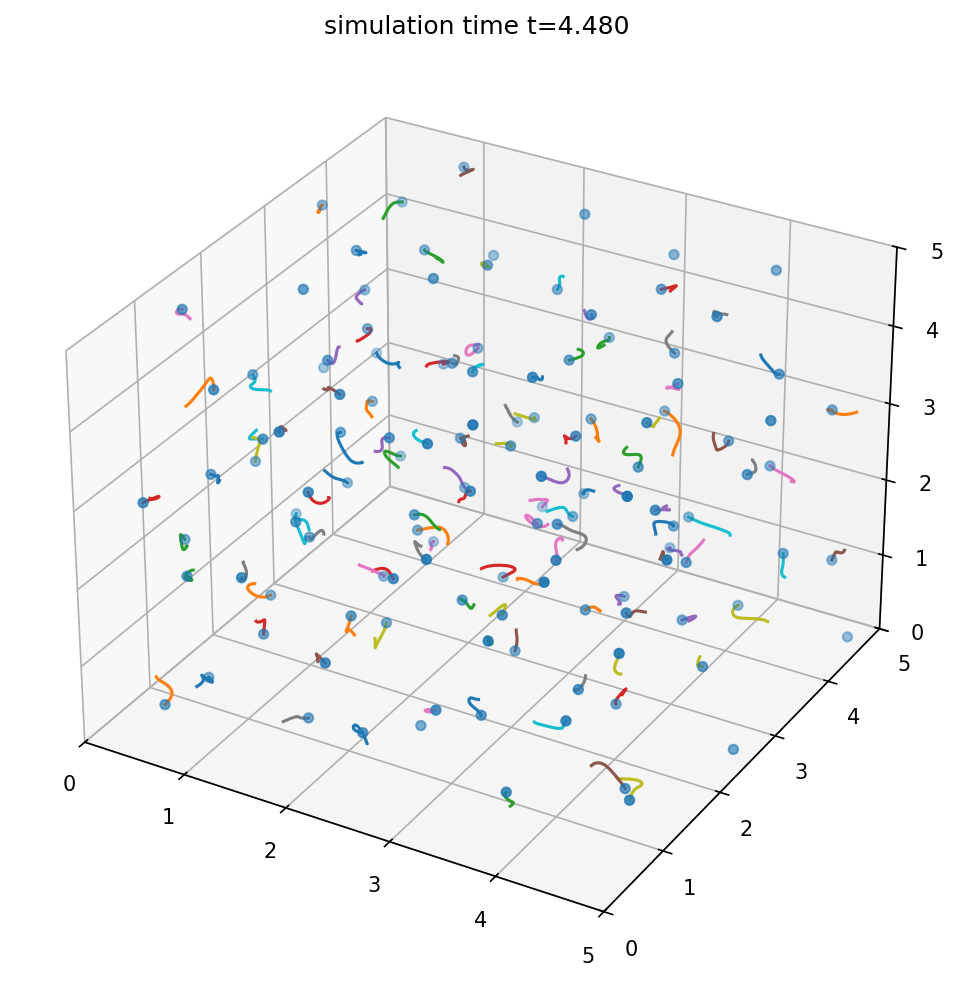
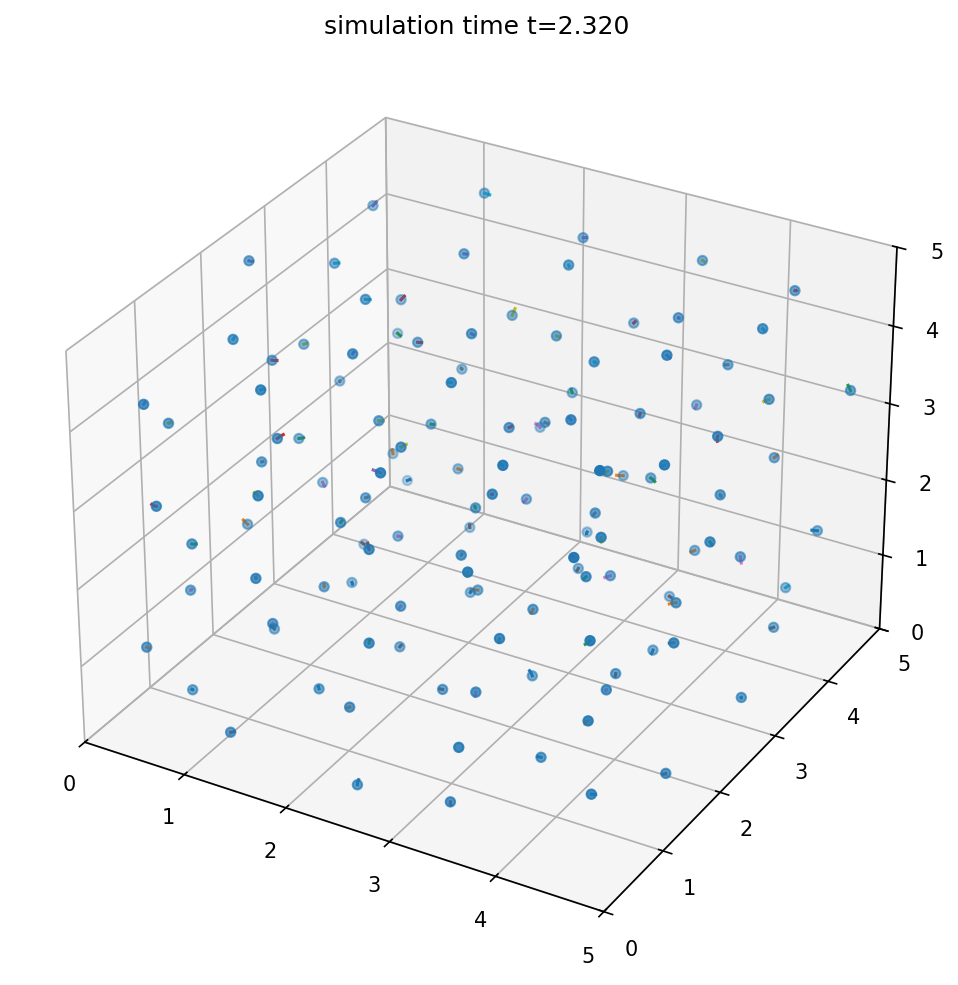
vel renormalization works

diff --git a/main.py b/main.py
@@ -6,7 +6,7 @@ import matplotlib.pyplot as plt
 import matplotlib.animation as animation
 from collections import deque
 from forces import calculateForces
-from pos_and_vel import box_array, position, velocity, toy_position, toy_velocity, renormalization
+from pos_and_vel import box_array, position, velocity, toy_position, toy_velocity, renormalization, stable
 import time
 from energies import array_of_energies
 
@@ -39,7 +39,7 @@ n_particles = n_particles_1d**n_dim
 # TIME
 timestep = 1e-2
 fps = 120
-max_simulation_time = 120
+max_simulation_time = 60
 
 tot_internal_time = 20
 num_iterations = int(tot_internal_time / timestep)
@@ -145,8 +145,8 @@ for i in range(num_iterations):
     # tail update
     tail.append(pos.copy())
 
-    if stable(kinetics):
-        vel*=renormalization(T,kinetic)
+    if stable(kinetic):
+        vel*=renormalization(T,energy[1])
 
 
     ####################################################################

diff --git a/pos_and_vel.py b/pos_and_vel.py
@@ -97,9 +97,9 @@ def renormalization( T, kinetic):
     
 
 def stable(kinetics):
-    if kinetics.shape[0]<30:
+    if len(kinetics)<30:
         return False
-    elif np.abs(np.mean(np.diff(kinetics)))<0.1:
+    elif np.abs(np.mean(np.diff(kinetics)))<5:
         return True
     else:
         return False
